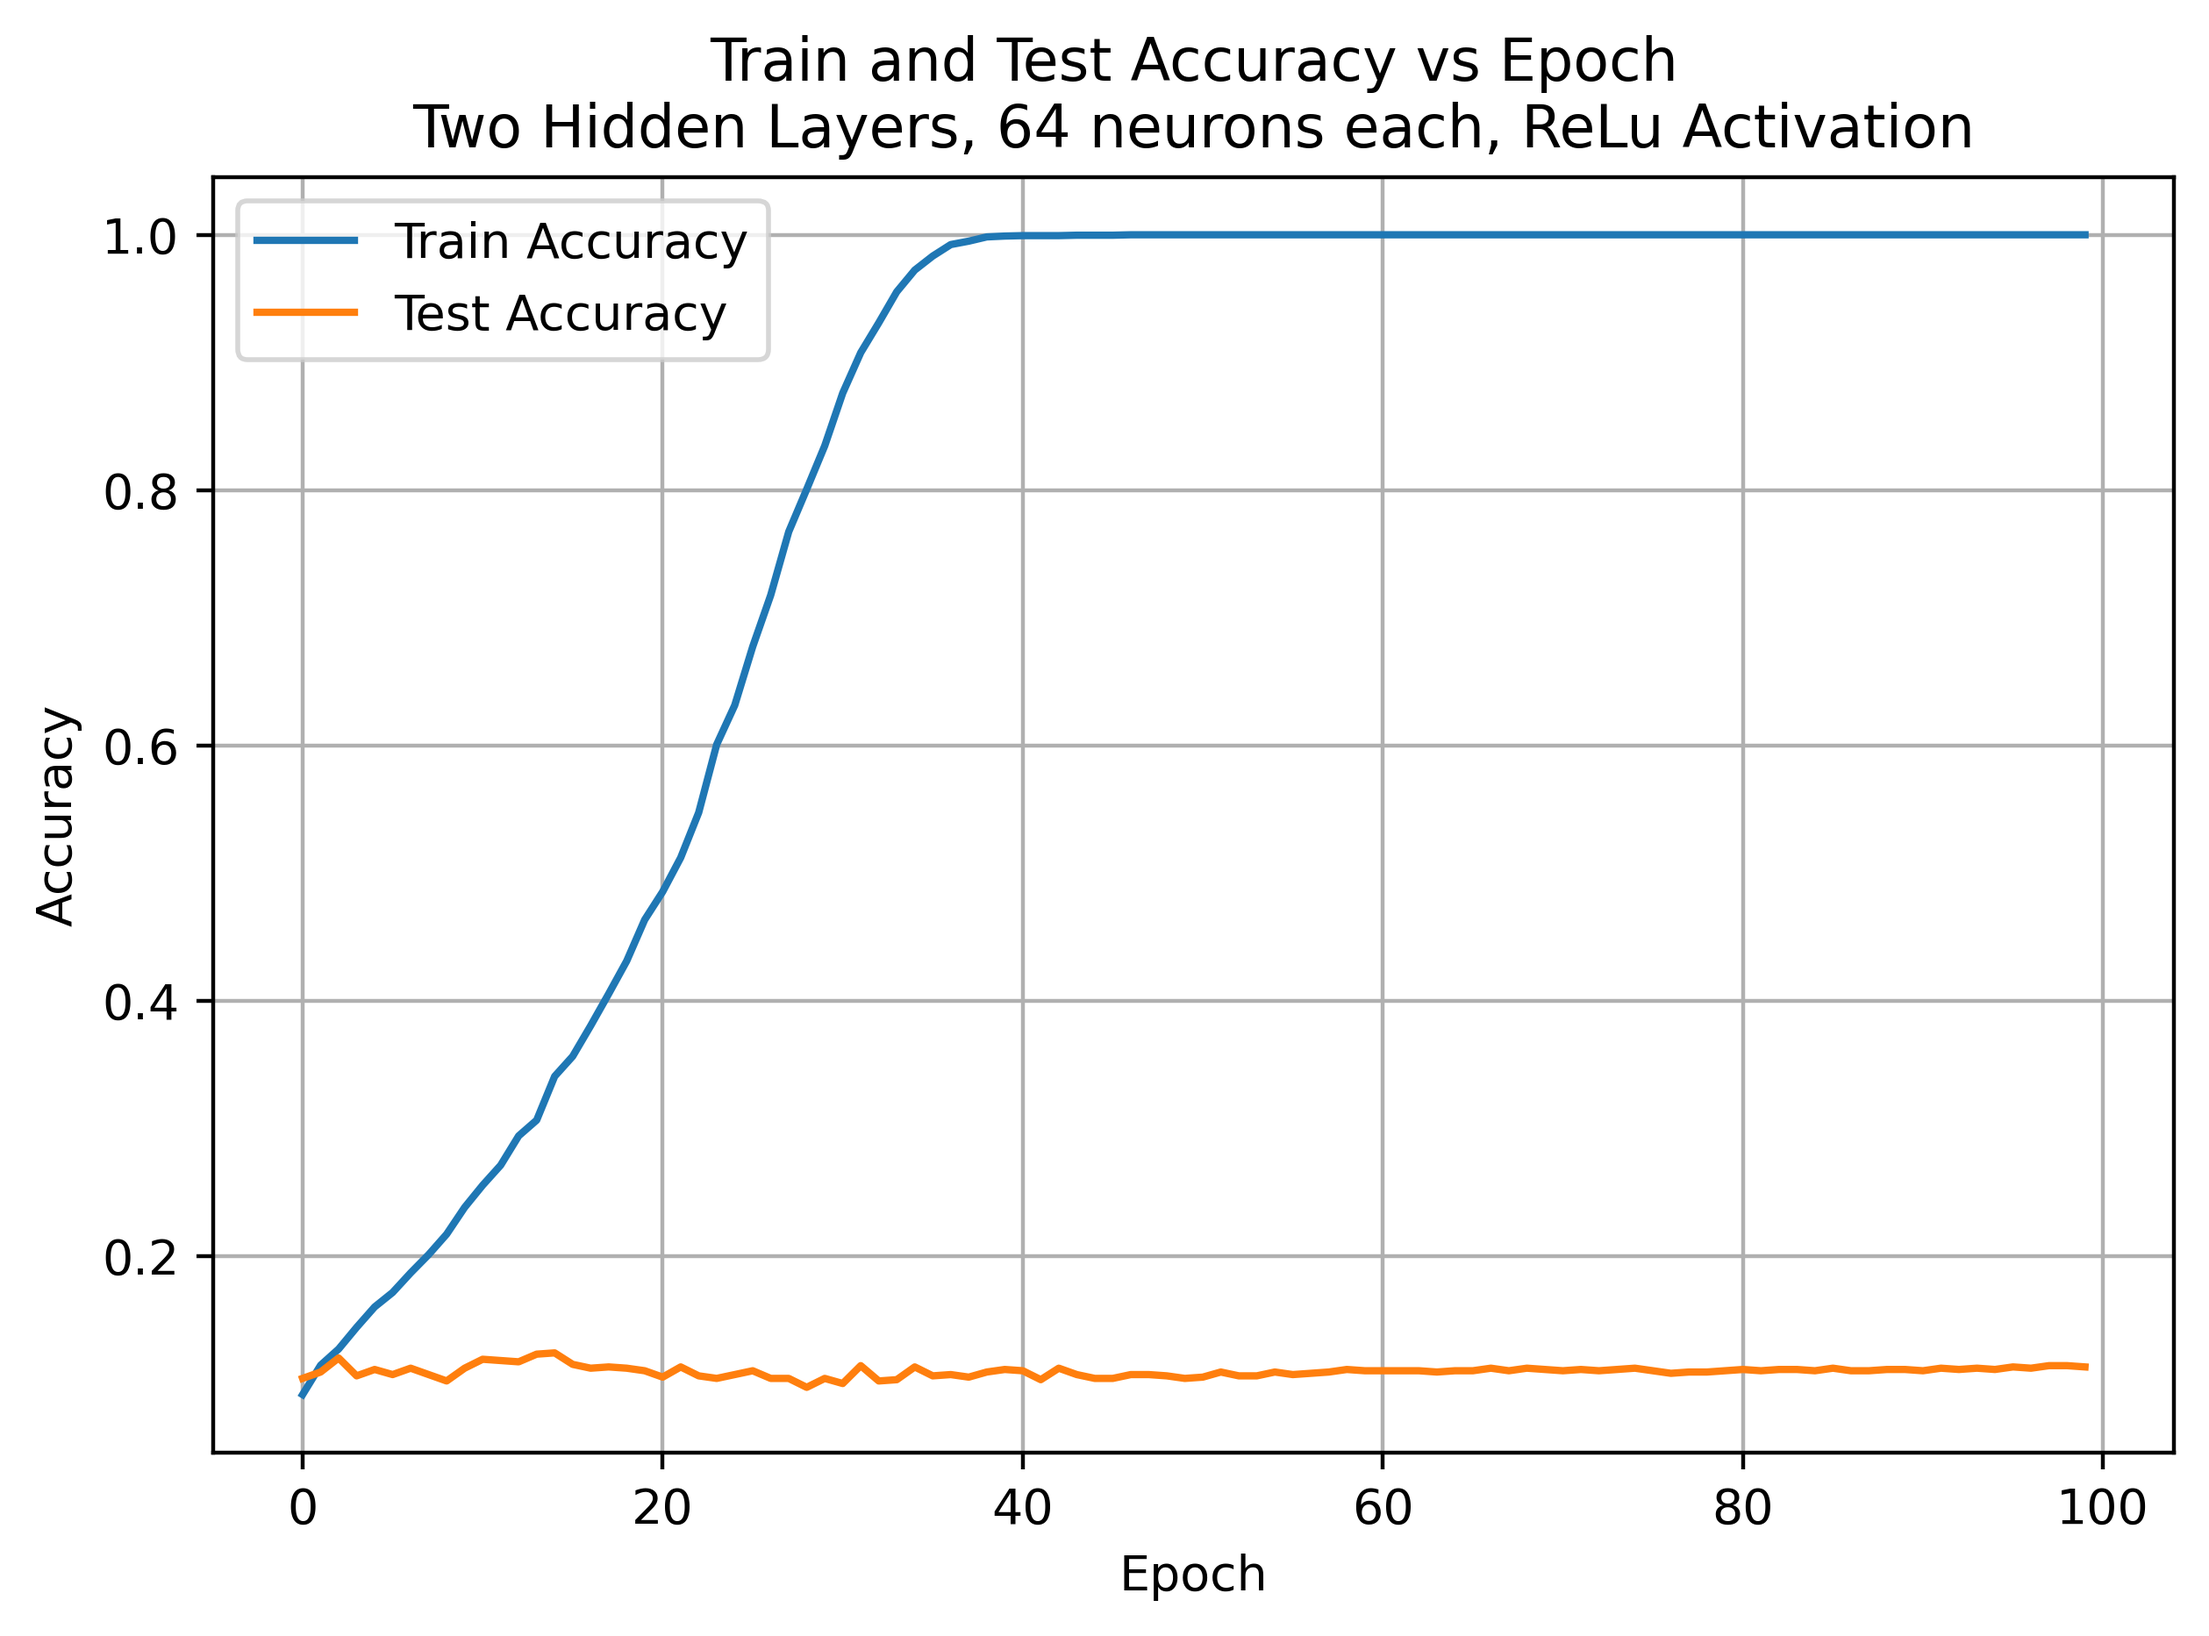
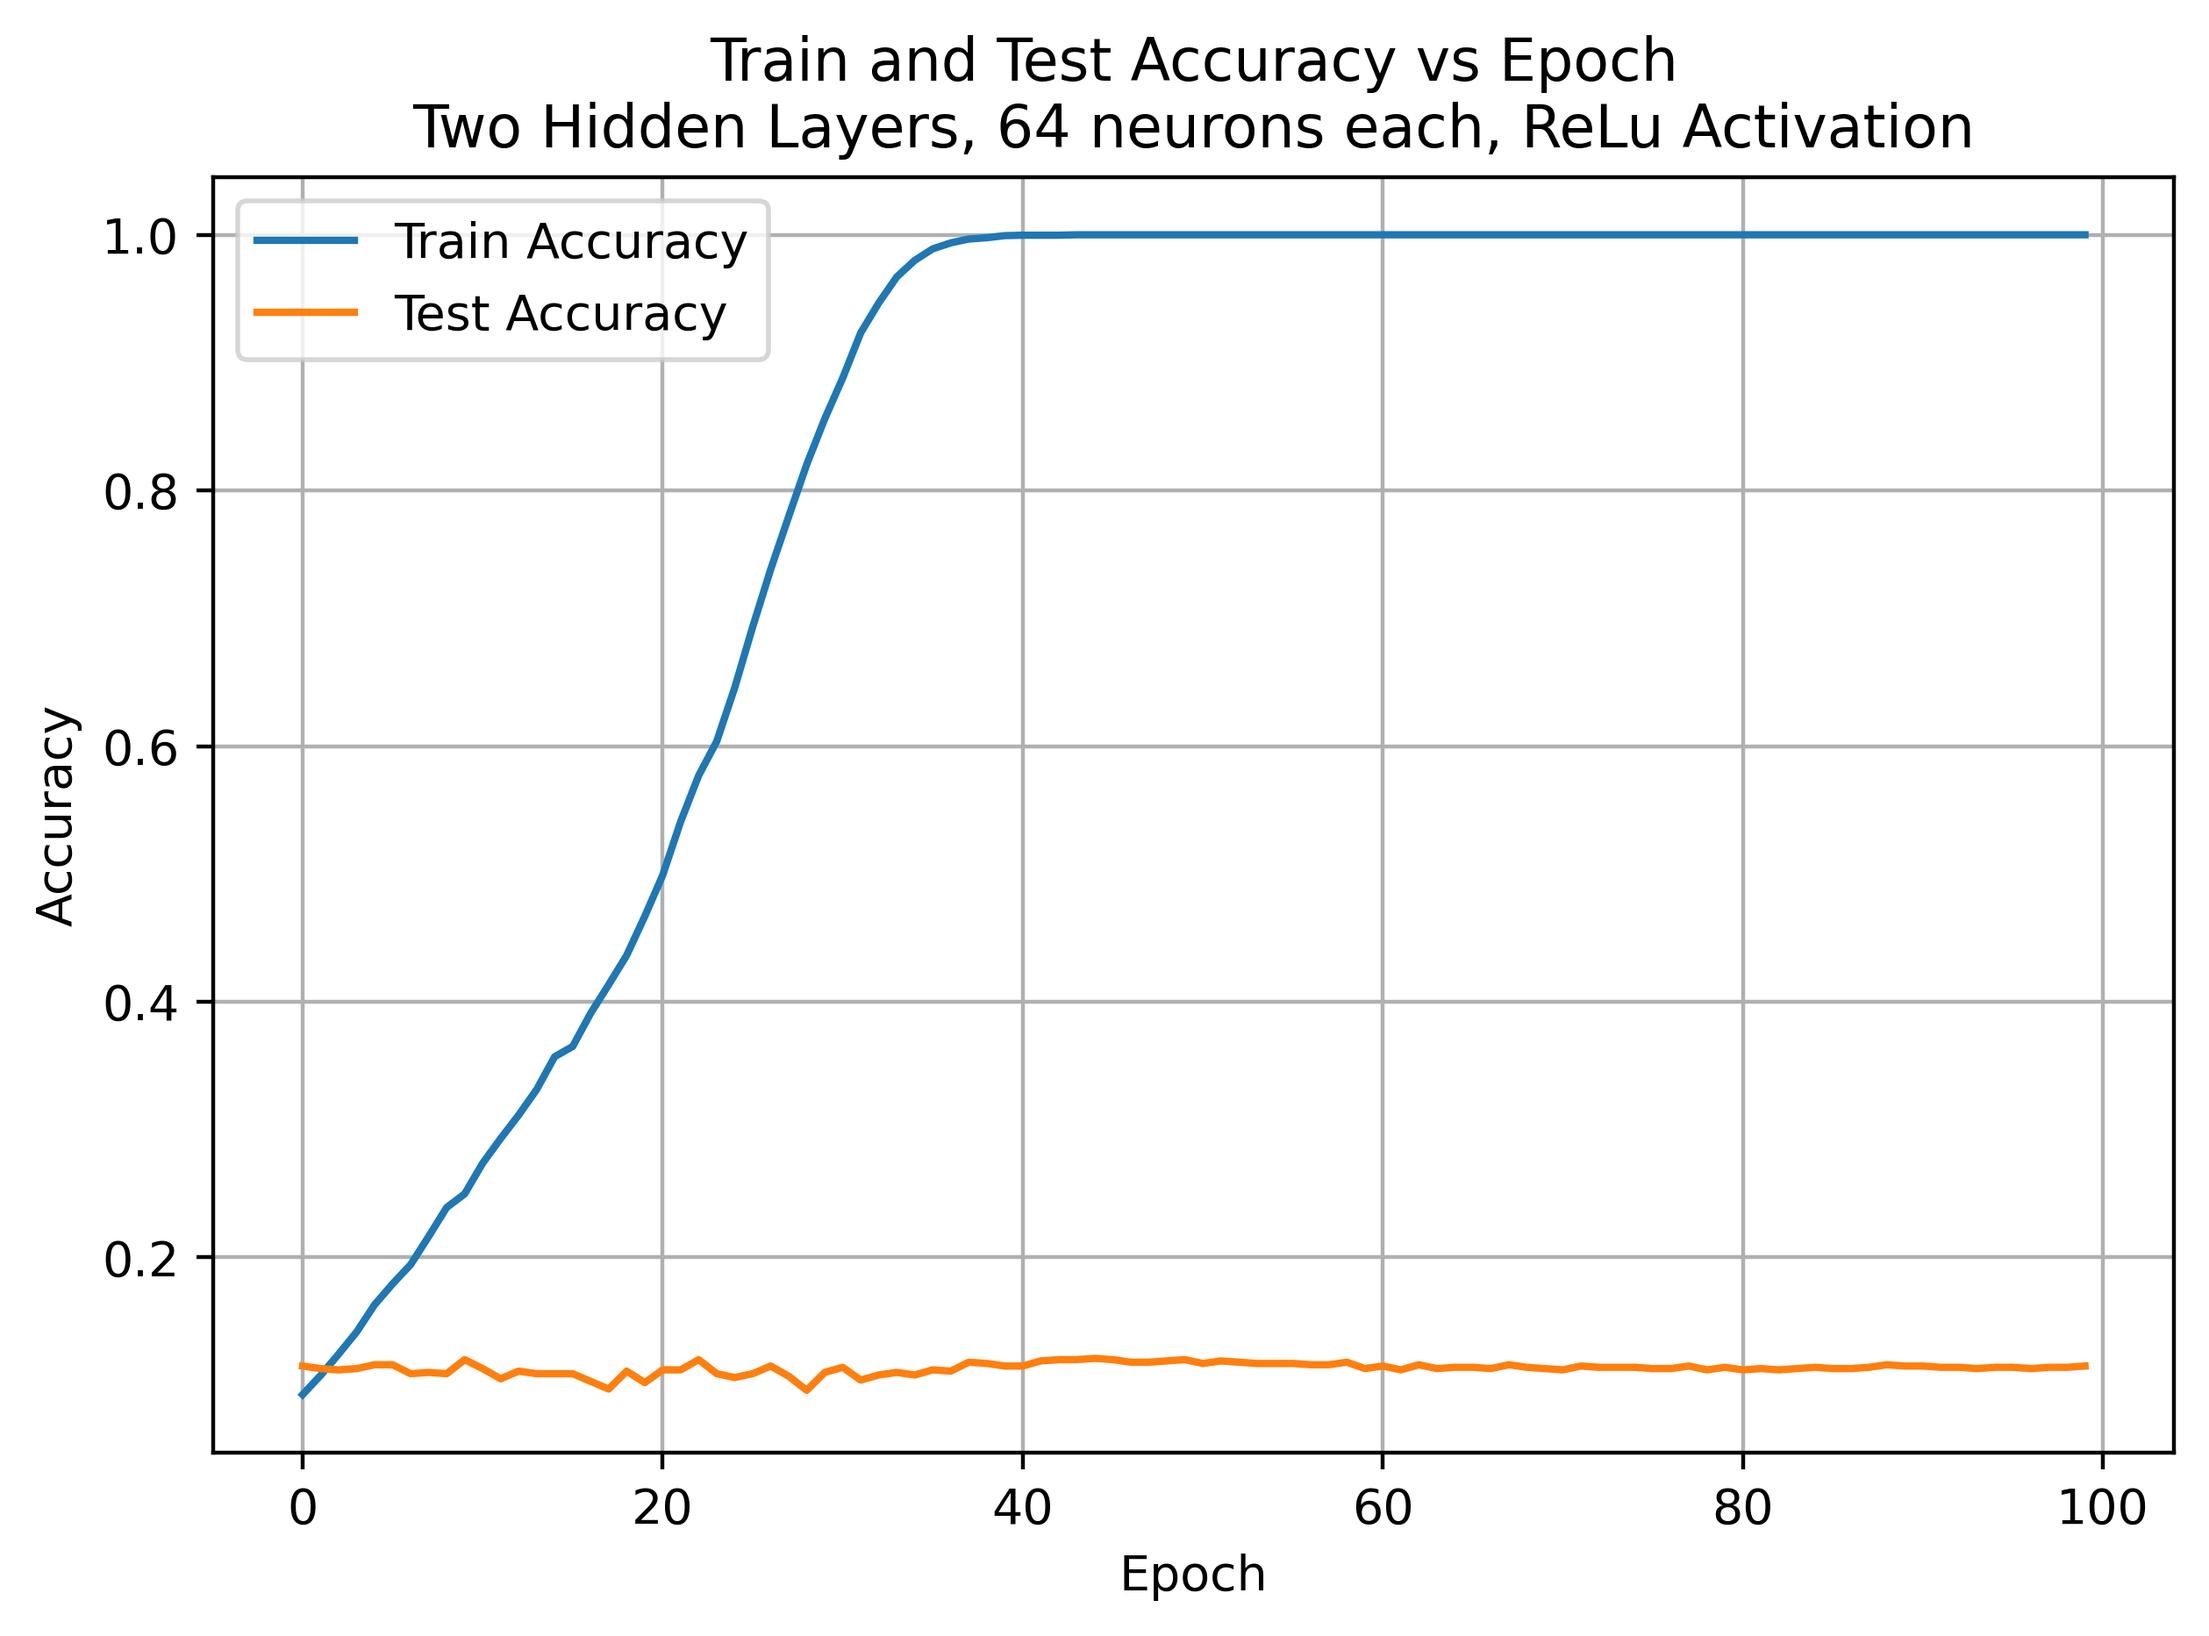
working on function to save space

diff --git a/assignments/hw07/code/hw07.py b/assignments/hw07/code/hw07.py
@@ -11,17 +11,13 @@ import matplotlib.pyplot as plt
 #https://docs.pytorch.org/tutorials/beginner/basics/buildmodel_tutorial.html
 #https://www.codecademy.com/article/building-a-neural-network-using-pytorch
 
-
+#need to cut down the number of lines of code.  800 is insane
 #a single .mat file
 mat = loadmat("assignments/hw07/data/cnnslm3000.mat")
 
-#saving objects
-x = mat["x"]
-y = mat["y"]
-xtest = mat["xtest"]
-ytest = mat["ytest"]
-
-print(y)
+#one liners to get x and x test.  stores them as tensors from the getgo
+x, xtest = (torch.from_numpy(mat[k]) for k in ("x", "xtest"))
+y, ytest = (torch.from_numpy(mat[k]).t().squeeze() for k in ("y", "ytest"))
 
 #check the data types
 print("x:", x.shape, x.dtype, "y:", y.shape, y.dtype)
@@ -31,17 +27,6 @@ print("xtest:", xtest.shape, xtest.dtype, "ytest:", ytest.shape, ytest.dtype)
 device = torch.device("cuda" if torch.cuda.is_available() else "cpu")
 print("Using device:", device)
 
-#need to convert the data to tensors
-x_tensor = torch.from_numpy(x)
-xtest_tensor = torch.from_numpy(xtest)
-
-#transposing 
-y_tensor = torch.from_numpy(y).t().squeeze()
-ytest_tensor = torch.from_numpy(ytest).t().squeeze()
-
-#check if they've changed
-print("After torch convers.  y:", y_tensor.shape, y_tensor.dtype, "ytest:", ytest_tensor.shape, ytest_tensor.dtype)
-
 #initialising the loss function and the number of epochs to use
 #as well as optimizer to use
 epochs_to_use = 100
@@ -50,24 +35,40 @@ criterion = nn.CrossEntropyLoss()
 #just picking one between 32 and 256
 batch_size = 128
 
-#need to convert data into Tensors
-train_dataset = TensorDataset(x_tensor, y_tensor)
-test_dataset = TensorDataset(xtest_tensor, ytest_tensor)
+#need to get Dataloaders of the Datasets
+train_load = DataLoader(TensorDataset(x, y), batch_size=batch_size, shuffle=True)
+test_load  = DataLoader(TensorDataset(xtest, ytest), batch_size=batch_size, shuffle=False)
 
-#DataLoaders
-train_load = DataLoader(
-    train_dataset,
-    batch_size=batch_size,
-    shuffle=True
-)
+#function for reuse
+def run_NN_train(model, loader, optimizer, device):
+    
 
-test_load = DataLoader(
-    test_dataset,
-    batch_size=batch_size,
-    shuffle=False
-)
 
-print(x_tensor[0].numel())
+#information for a loop
+parts_a_b = [
+    dict(
+        name="part_a",
+        model=nn.Sequential(
+            nn.Linear(256, 256),
+            nn.ReLU(),
+            nn.Linear(256, 10)
+        ),
+        title="Train and Test Accuracy vs Epoch\nOne Hidden Layer, 256 neurons, ReLU Activation",
+        save_path="assignments/hw07/figures/part_a.png"
+    ),
+    dict(
+        name="part_b",
+        model=nn.Sequential(
+            nn.Linear(256, 64),
+            nn.ReLU(),
+            nn.Linear(64, 64),
+            nn.ReLU(),
+            nn.Linear(64, 10)
+        ),
+        title="Train and Test Accuracy vs Epoch\nTwo Hidden Layers, 64 neurons each, ReLU Activation",
+        save_path="assignments/hw07/figures/part_b.png"
+    )
+]
 
 #part a.  1 hidden layer + ReLU 256 neurons
 #defining model AND sending it to CUDA device
